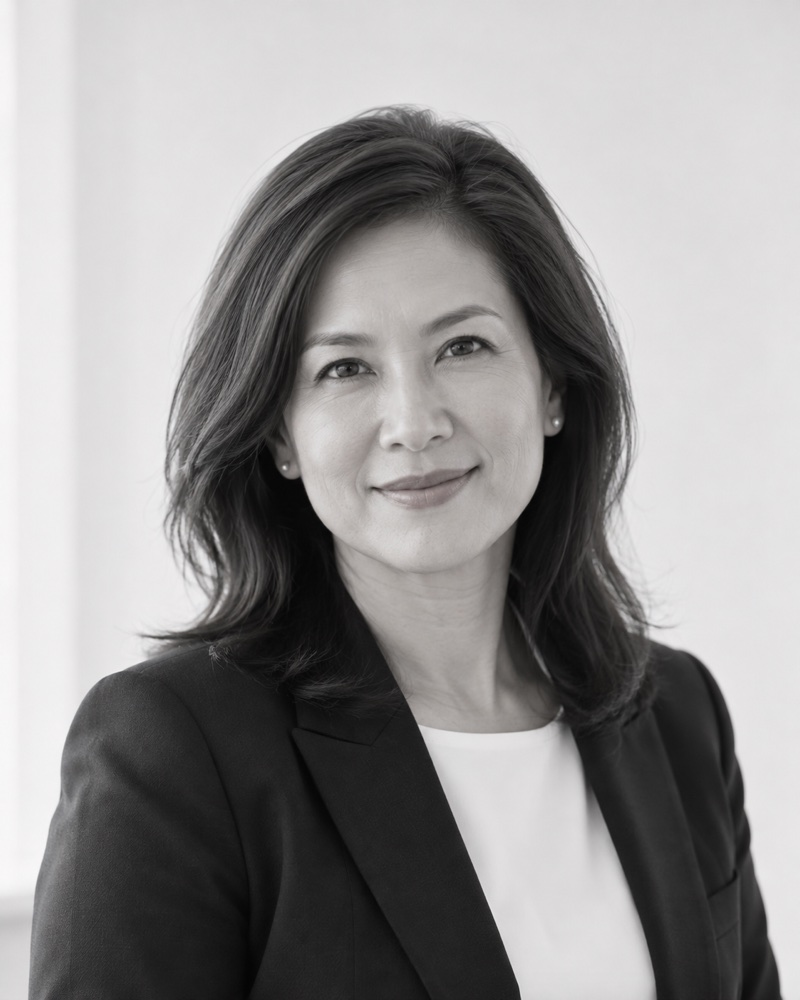
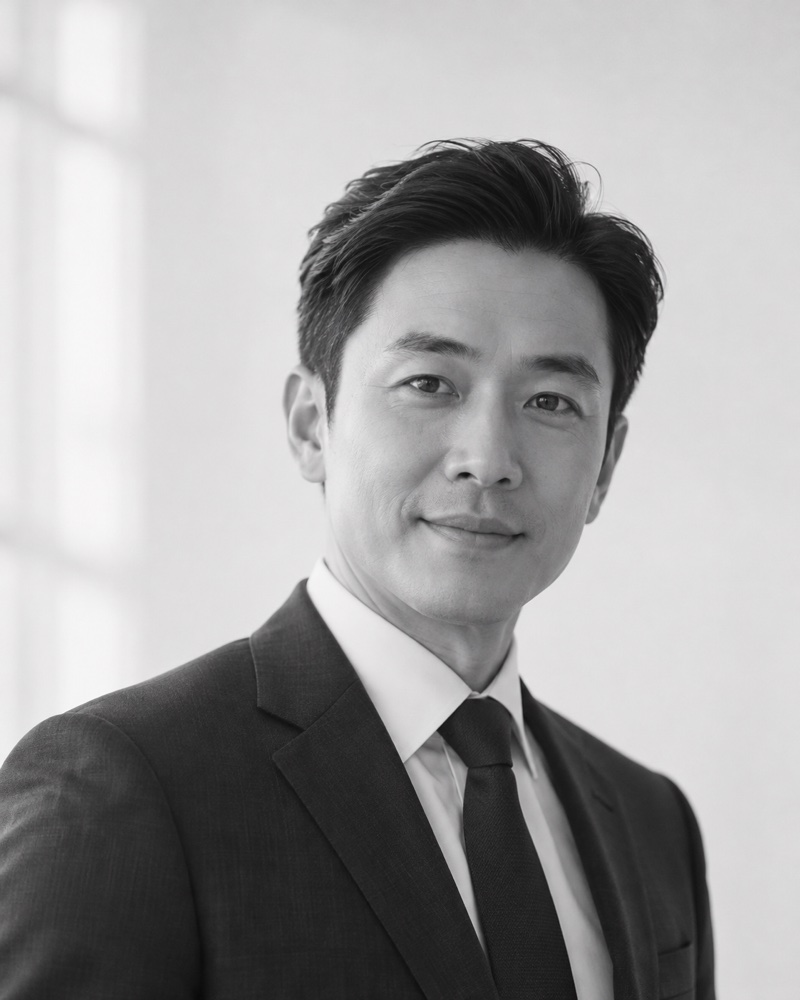
Sync remaining local site changes (index, components, hero curtain, lawyer image)

diff --git a/index.html b/index.html
@@ -98,11 +98,11 @@
 </section>
 
 <!-- About -->
-<section class="section about" aria-labelledby="about" data-nav="light">
+<section class="section about" id="about" aria-label="About" data-nav="light">
   <div class="about__track" data-about>
     <div class="about__stage">
       <div class="container">
-        <p class="statement"><span class="statement__source"><span id="about" role="heading" aria-level="2">Your predicament, recognised and resolved.</span> Legal problems rarely arrive at a convenient time. As a boutique firm, you deal directly with the lawyer handling your matter, who will listen, tell you plainly where you stand and recommend what works for you<span class="gold-stop">.</span></span></p>
+        <p class="statement"><span class="statement__source">Legal problems rarely arrive at a convenient time. As a boutique firm, you deal directly with the lawyer handling your matter, who will listen, tell you plainly where you stand and work through the options with you<span class="gold-stop">.</span></span></p>
         <ul class="cards">
           <li class="card">
             <svg class="card__motif" viewBox="0 0 96 96" aria-hidden="true" focusable="false"><circle class="m-gold" cx="38" cy="48" r="26"/><circle class="m-ring" cx="58" cy="48" r="26"/></svg>
@@ -155,7 +155,7 @@
       </div>
     </div>
     <div class="container services__copy">
-      <p class="services__line" data-line><span class="services__line-item">Advocate and solicitors<span class="services__stop">.</span></span><span class="services__line-item">Commissioner for oaths<span class="services__stop">.</span></span><span class="services__line-item">Notary public<span class="services__stop">.</span></span></p>
+      <p class="services__line" data-line><span class="services__line-item services__firm">Lim Soo Peng &amp; Co LLC<span class="services__stop">.</span></span><span class="services__line-item">Advocate and solicitors<span class="services__stop">.</span></span><span class="services__line-item">Commissioner for oaths<span class="services__stop">.</span></span><span class="services__line-item">Notary public<span class="services__stop">.</span></span></p>
       <span class="services__scroll" data-scroll-cue aria-hidden="true"><svg viewBox="0 0 24 24"><path class="hero__chev hero__chev--top" d="M6 6.5 12 12l6-5.5"/><path class="hero__chev hero__chev--bottom" d="M6 12.5 12 18l6-5.5"/></svg></span>
       <ol class="services__list">
         <li class="service" data-service="1"><span class="service__num">01</span><h3 class="service__name">Litigation</h3></li>
@@ -227,25 +227,24 @@
     </header>
     <div class="lawyers">
       <article class="lawyer" data-cursor="Read bio">
-        <div class="photo photo--portrait"><img src="assets/images/lawyer-first.jpg" width="800" height="1000" loading="lazy" alt="Portrait of the first lawyer"></div>
+        <div class="photo photo--portrait"><img src="assets/images/lawyer-first.jpg" width="800" height="1000" loading="lazy" alt="Portrait of Lim Soo Peng"></div>
         <div class="lawyer__row">
           <div class="lawyer__info">
-            <h3 class="lawyer__name">[First lawyer name]<span class="gold-stop">.</span></h3>
-            <p class="lawyer__meta">[qualifications]</p>
-            <p class="lawyer__meta">[Title]</p>
+            <h3 class="lawyer__name">Lim Soo Peng<span class="gold-stop">.</span></h3>
+            <p class="lawyer__meta">Advocate &amp; Solicitor, Singapore</p>
+            <p class="lawyer__meta">Notary Public, Singapore</p>
           </div>
-          <button class="cta cta--icon" type="button" aria-label="Read more about [First lawyer name]" aria-haspopup="dialog" aria-controls="bio-1"><span class="cta__ring" aria-hidden="true"><svg><use href="#i-plus"/></svg></span></button>
+          <button class="cta cta--icon" type="button" aria-label="Read more about Lim Soo Peng" aria-haspopup="dialog" aria-controls="bio-1"><span class="cta__ring" aria-hidden="true"><svg><use href="#i-plus"/></svg></span></button>
         </div>
       </article>
       <article class="lawyer" data-cursor="Read bio">
-        <div class="photo photo--portrait"><img src="assets/images/lawyer-second.jpg" width="800" height="1000" loading="lazy" alt="Portrait of the second lawyer"></div>
+        <div class="photo photo--portrait"><img src="assets/images/lawyer-second.jpg" width="800" height="1000" loading="lazy" alt="Portrait of Peter Wong Chee Keong"></div>
         <div class="lawyer__row">
           <div class="lawyer__info">
-            <h3 class="lawyer__name">[Second lawyer name]<span class="gold-stop">.</span></h3>
-            <p class="lawyer__meta">[qualifications]</p>
-            <p class="lawyer__meta">[Title]</p>
+            <h3 class="lawyer__name">Peter Wong Chee Keong<span class="gold-stop">.</span></h3>
+            <p class="lawyer__meta">Advocate &amp; Solicitor, Singapore</p>
           </div>
-          <button class="cta cta--icon" type="button" aria-label="Read more about [Second lawyer name]" aria-haspopup="dialog" aria-controls="bio-2"><span class="cta__ring" aria-hidden="true"><svg><use href="#i-plus"/></svg></span></button>
+          <button class="cta cta--icon" type="button" aria-label="Read more about Peter Wong Chee Keong" aria-haspopup="dialog" aria-controls="bio-2"><span class="cta__ring" aria-hidden="true"><svg><use href="#i-plus"/></svg></span></button>
         </div>
       </article>
     </div>
@@ -342,27 +341,26 @@
 <!-- Lawyer bios -->
 <dialog class="bio" id="bio-1" aria-labelledby="bio-1-name" tabindex="-1">
   <div class="bio__grip" aria-hidden="true" data-grip></div>
-  <div class="photo photo--portrait bio__photo"><img src="assets/images/lawyer-first.jpg" width="800" height="1000" loading="lazy" alt="Portrait of the first lawyer"></div>
+  <div class="photo photo--portrait bio__photo"><img src="assets/images/lawyer-first.jpg" width="800" height="1000" loading="lazy" alt="Portrait of Lim Soo Peng"></div>
   <div class="bio__head">
-    <h2 class="bio__name" id="bio-1-name">[First lawyer name]<span class="gold-stop">.</span></h2>
-    <p class="bio__meta">[qualifications]</p>
-    <p class="bio__meta">[Title]</p>
+    <h2 class="bio__name" id="bio-1-name">Lim Soo Peng<span class="gold-stop">.</span></h2>
+    <p class="bio__meta">Advocate &amp; Solicitor, Singapore</p>
+    <p class="bio__meta">Notary Public, Singapore</p>
   </div>
   <div class="bio__rule" aria-hidden="true"></div>
-  <p class="bio__text">[Name] was called to the Singapore Bar in [year]. [He/She] acts in [main areas of work], and is known to clients for [one plain, factual trait, e.g. clear and responsive advice]. [Further experience, other admissions and languages, about 80 to 120 words in all.]</p>
+  <p class="bio__text">Advocate &amp; Solicitor, Singapore<br>Notary Public, Singapore<br>Commissioner for Oaths, Singapore<br>Mediator, Singapore Mediation Centre<br>Solicitor, England &amp; Wales</p>
   <button class="cta cta--icon bio__close" type="button" aria-label="Close" data-close><span class="cta__ring" aria-hidden="true"><svg><use href="#i-x"/></svg></span></button>
   <button class="btn btn--lg btn--outline bio__back" type="button" data-close>Back</button>
 </dialog>
 <dialog class="bio" id="bio-2" aria-labelledby="bio-2-name" tabindex="-1">
   <div class="bio__grip" aria-hidden="true" data-grip></div>
-  <div class="photo photo--portrait bio__photo"><img src="assets/images/lawyer-second.jpg" width="800" height="1000" loading="lazy" alt="Portrait of the second lawyer"></div>
+  <div class="photo photo--portrait bio__photo"><img src="assets/images/lawyer-second.jpg" width="800" height="1000" loading="lazy" alt="Portrait of Peter Wong Chee Keong"></div>
   <div class="bio__head">
-    <h2 class="bio__name" id="bio-2-name">[Second lawyer name]<span class="gold-stop">.</span></h2>
-    <p class="bio__meta">[qualifications]</p>
-    <p class="bio__meta">[Title]</p>
+    <h2 class="bio__name" id="bio-2-name">Peter Wong Chee Keong<span class="gold-stop">.</span></h2>
+    <p class="bio__meta">Advocate &amp; Solicitor, Singapore</p>
   </div>
   <div class="bio__rule" aria-hidden="true"></div>
-  <p class="bio__text">[Name] was called to the Singapore Bar in [year]. [He/She] acts in [main areas of work], and is known to clients for [one plain, factual trait, e.g. clear and responsive advice]. [Further experience, other admissions and languages, about 80 to 120 words in all.]</p>
+  <p class="bio__text">Advocate &amp; Solicitor, Singapore<br>Notary Public, Singapore<br>Commissioner for Oaths, Singapore<br>Mediator, Singapore Mediation Centre<br>Solicitor, England &amp; Wales</p>
   <button class="cta cta--icon bio__close" type="button" aria-label="Close" data-close><span class="cta__ring" aria-hidden="true"><svg><use href="#i-x"/></svg></span></button>
   <button class="btn btn--lg btn--outline bio__back" type="button" data-close>Back</button>
 </dialog>

diff --git a/library/components.css b/library/components.css
@@ -272,6 +272,7 @@ html:not(.js) .nav__links{display:none}
    three words, centred, with no trailing circle. Each row holds three copies of the set so the loop never shows a gap. */
 .tagline{overflow:hidden;padding-top:0}
 .tagline__rows{display:grid;gap:.15em;font:400 clamp(3.5rem,13vw,11rem)/1 var(--font-serif);color:var(--grey-400)}
+@media (min-width:1200px){.tagline__rows{font-size:clamp(5rem,8vw,8rem)}}
 .tagline__row{display:flex;width:max-content;white-space:nowrap;will-change:transform}
 .tagline__set{display:flex;align-items:baseline;flex:none}
 /* Circle the height of the capitals (about .64em in Cormorant), sitting on the baseline so its centre is at half cap height */

diff --git a/scripts/hero-curtain.js b/scripts/hero-curtain.js
@@ -70,6 +70,12 @@
     var target = document.querySelector(link.getAttribute("href"));
     if (!target) return;
     e.preventDefault();
+    // What we do is pinned: landing on its top shows only the small entry frame. Land where the one-liner is fully
+    // visible instead (timeline position 2 of 8, i.e. two viewport heights into the pin; see services-scroll.js).
+    if (target.hasAttribute("data-services") && target.classList.contains("is-pinned")) {
+      lenis.scrollTo(target.getBoundingClientRect().top + window.scrollY + window.innerHeight * 2);
+      return;
+    }
     lenis.scrollTo(target, { offset: -rem(112) });
   }
 
